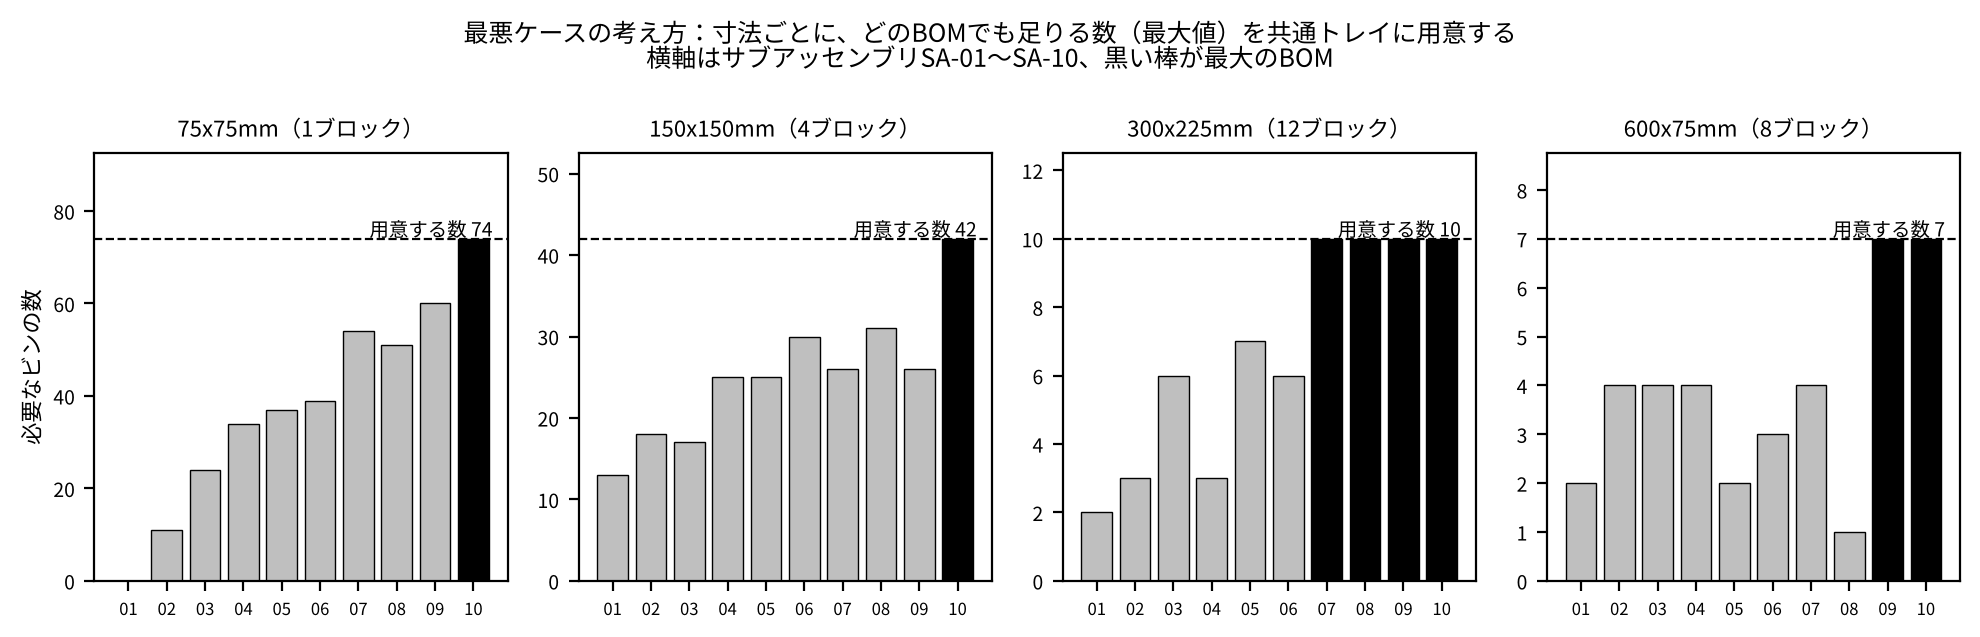
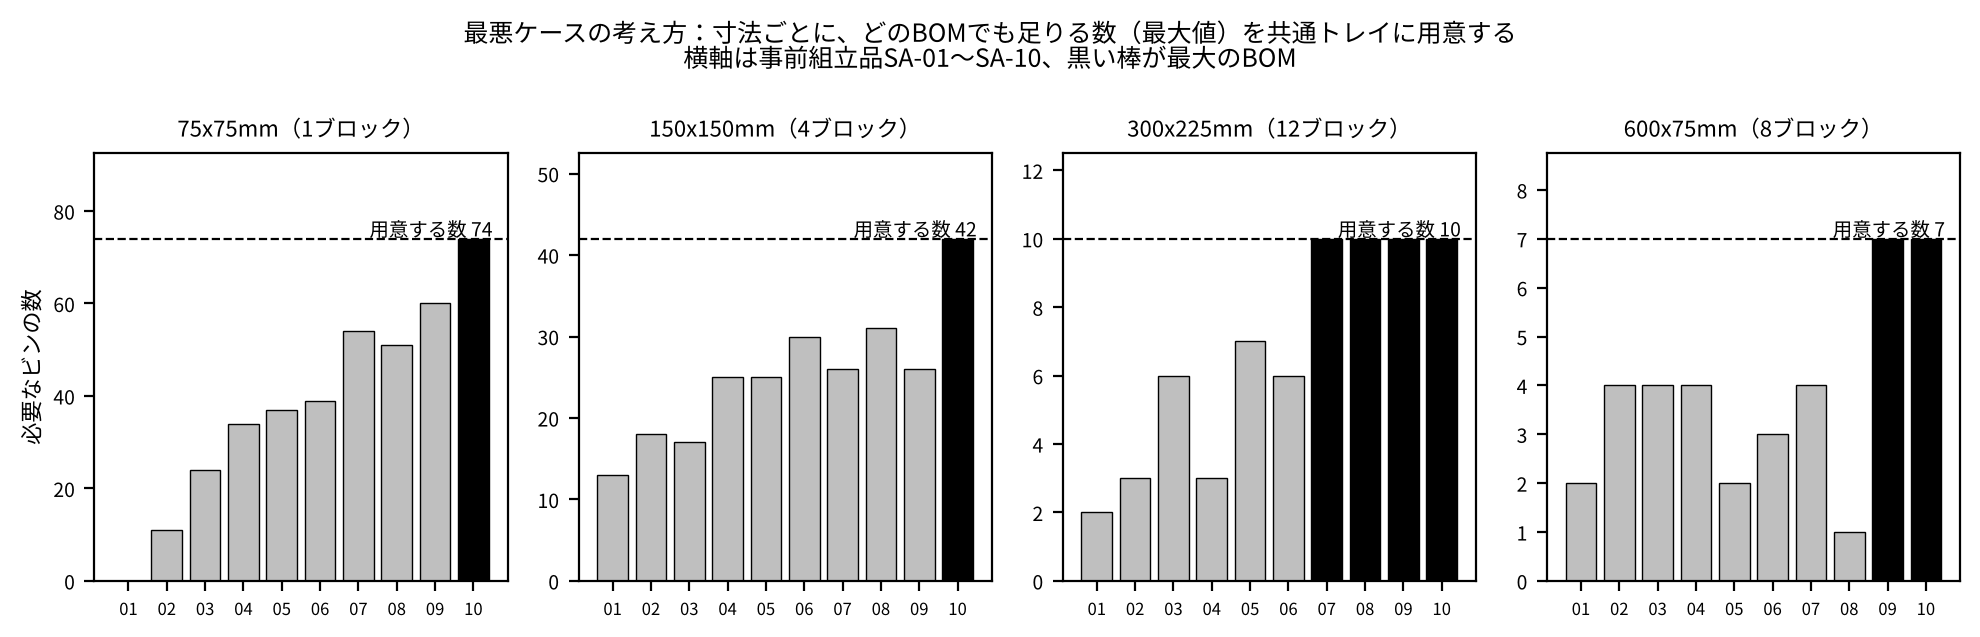
用語を「事前組立品」に統一（サブアッセンブリ）
Claude-Session: https://claude.ai/code/session_015ijjeCwV7qRARbxqxFA8nM

Changed region(s): [[0.3081, 0.0597, 0.6778, 0.1193]]

diff --git a/kitting/data.py b/kitting/data.py
@@ -1,4 +1,4 @@
-"""合成データ：架空の組立品「装置X」のサブアッセンブリと、その部品表（BOM）。
+"""合成データ：架空の組立品「装置X」の事前組立品と、その部品表（BOM）。
 
 実在の部品・BOM・企業とは無関係。乱数の種を固定すれば、いつでも同じデータが得られる。
 """
@@ -13,7 +13,7 @@ from .config import DEFAULT_SEED
 
 @dataclass(frozen=True)
 class Part:
-    bom: str            # サブアッセンブリ名（例: SA-10）
+    bom: str            # 事前組立品名（例: SA-10）
     part_no: str        # 部品番号（架空）
     name: str           # 部品名（架空）
     step: int           # 使用する作業工程（0始まり）
@@ -69,17 +69,17 @@ def generate_bom(name: str, n_steps: int, parts_per_step: float, rng: random.Ran
     return parts
 
 
-# サブアッセンブリの構成（名前, 工程数, 1工程あたりの平均部品数）
+# 事前組立品の構成（名前, 工程数, 1工程あたりの平均部品数）
 PORTFOLIO = [
     ("SA-01", 12, 2.0), ("SA-02", 15, 2.2), ("SA-03", 18, 2.4), ("SA-04", 20, 2.5),
     ("SA-05", 22, 2.6), ("SA-06", 25, 2.8), ("SA-07", 28, 2.8), ("SA-08", 30, 3.0),
     ("SA-09", 34, 3.0), ("SA-10", 39, 3.3),
 ]
-COMPLEX_BOM = "SA-10"   # 第5章で使う最も複雑なサブアッセンブリ（39工程）
+COMPLEX_BOM = "SA-10"   # 第5章で使う最も複雑な事前組立品（39工程）
 
 
 def generate_portfolio(seed: int = DEFAULT_SEED) -> dict[str, list[Part]]:
-    """10種類のサブアッセンブリのBOMを作る。SA-10 は39工程・部品100点以上になるように引き直す。"""
+    """10種類の事前組立品のBOMを作る。SA-10 は39工程・部品100点以上になるように引き直す。"""
     rng = random.Random(seed)
     boms = {}
     for name, n_steps, pps in PORTFOLIO:

diff --git a/scripts/ch4_figures.py b/scripts/ch4_figures.py
@@ -122,7 +122,7 @@ def fig4_5(boms):
         ax.set_ylim(0, mx * 1.25)
     axes[0].set_ylabel("必要なビンの数", fontsize=8)
     fig.suptitle("最悪ケースの考え方：寸法ごとに、どのBOMでも足りる数（最大値）を共通トレイに用意する\n"
-                 "横軸はサブアッセンブリSA-01〜SA-10、黒い棒が最大のBOM", fontsize=9)
+                 "横軸は事前組立品SA-01〜SA-10、黒い棒が最大のBOM", fontsize=9)
     fig.tight_layout()
     save(fig, "fig4-5_worst_case.png")
     return r

diff --git a/scripts/ch5_layout.py b/scripts/ch5_layout.py
@@ -1,4 +1,4 @@
-"""第5章：最も複雑なサブアッセンブリ（SA-10、39工程）のビンをトレイに並べ、4つの方法を比べる。
+"""第5章：最も複雑な事前組立品（SA-10、39工程）のビンをトレイに並べ、4つの方法を比べる。
 
     python scripts/ch5_layout.py            # 本の数値を再現（数分）
     python scripts/ch5_layout.py --quick    # 短い計算時間で動作確認（1分程度）

diff --git a/README.md b/README.md
@@ -32,7 +32,7 @@ Google Colab でも、最初のセルで `!pip install ortools==9.15.6755 pulp==
 | 場所 | 中身 | 本書の章 |
 | --- | --- | --- |
 | `kitting/config.py` | トレイ・ブロック・ビン候補の寸法、乱数の種 | 全体 |
-| `kitting/data.py` | 架空の装置Xのサブアッセンブリ10種類（SA-01〜SA-10）のBOMを作る | 全体 |
+| `kitting/data.py` | 架空の装置Xの事前組立品（サブアッセンブリ）10種類（SA-01〜SA-10）のBOMを作る | 全体 |
 | `kitting/bins.py` | ビンに部品が何個入るか、2008年の割当ルール | 第3章 |
 | `kitting/sizing.py` | ビン寸法の品揃え問題（MILP） | 第4章 |
 | `kitting/layout.py` | ルールによる配置、CP-SATの配置モデル、LNSによる改善 | 第5章 |
@@ -58,7 +58,7 @@ Google Colab でも、最初のセルで `!pip install ortools==9.15.6755 pulp==
 
 `python scripts/run_all.py` の実行結果です。
 
-### 第4章：ビン寸法（10種類のサブアッセンブリ、部品計589点）
+### 第4章：ビン寸法（10種類の事前組立品、部品計589点）
 
 | 寸法の決め方 | 採用したビン（外形mm） | 全BOMの合計面積 | 共通トレイの面積 | どのビンにも入らない大物 |
 | --- | --- | --- | --- | --- |
